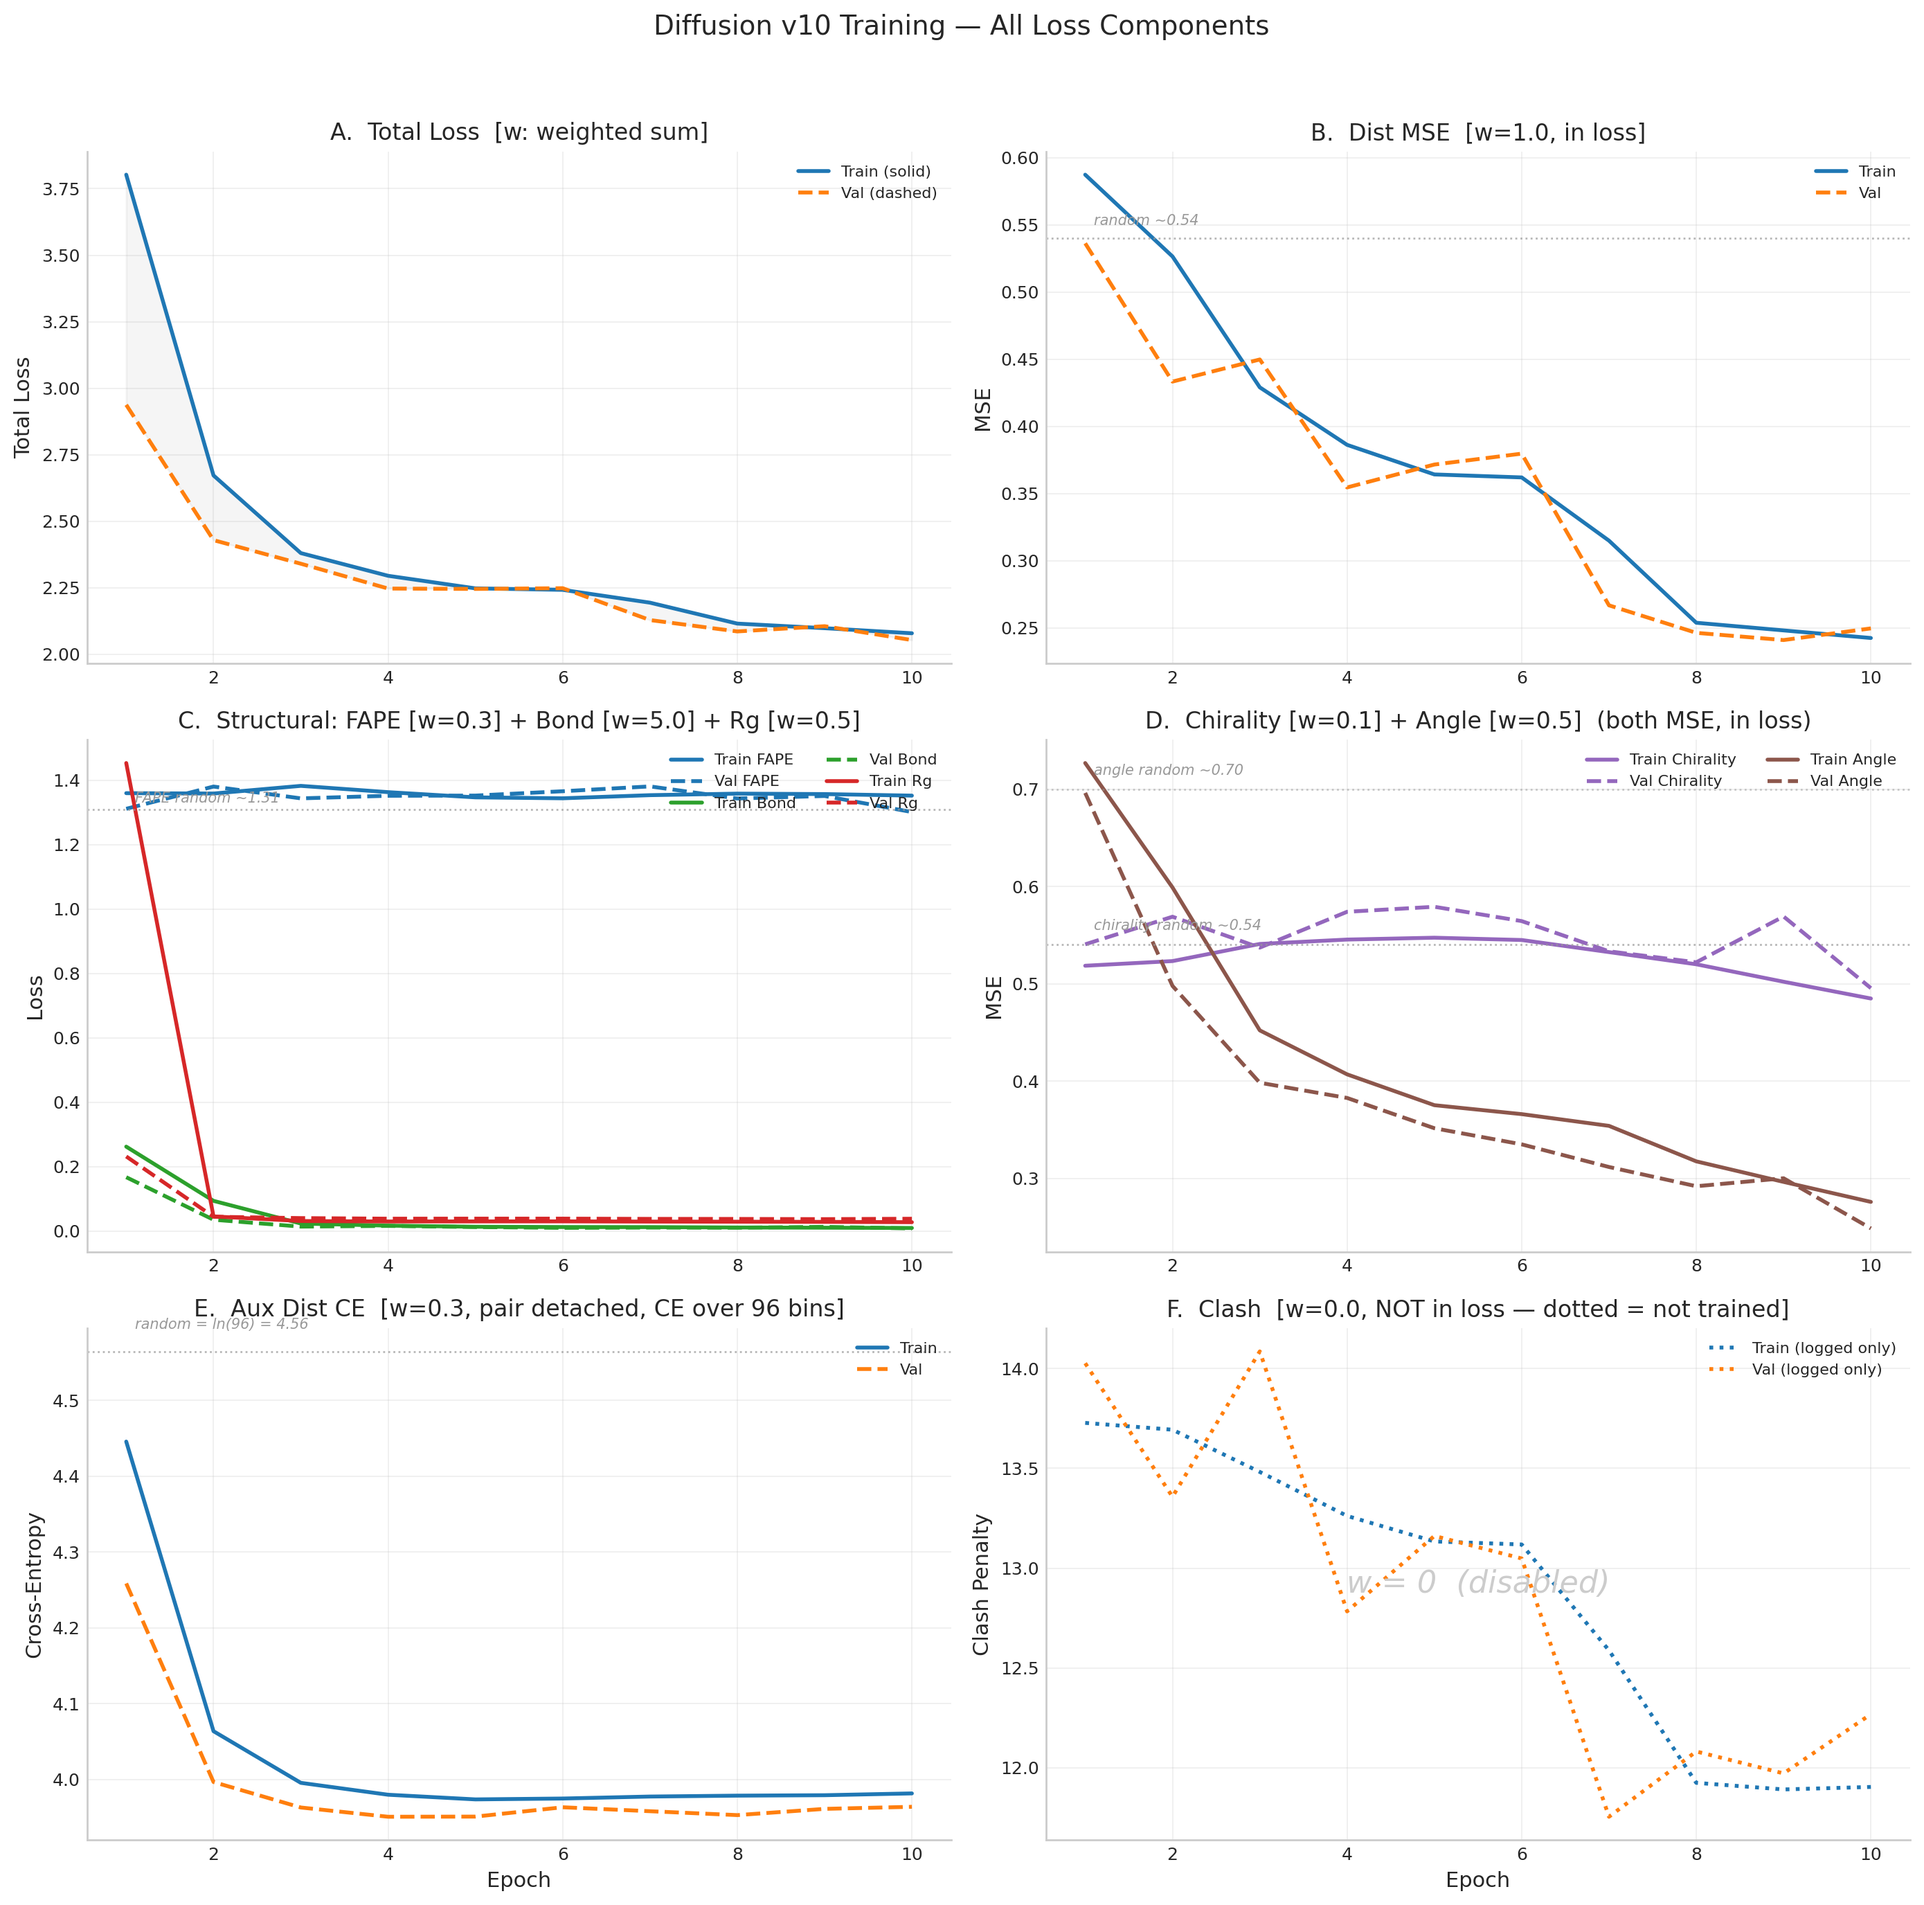
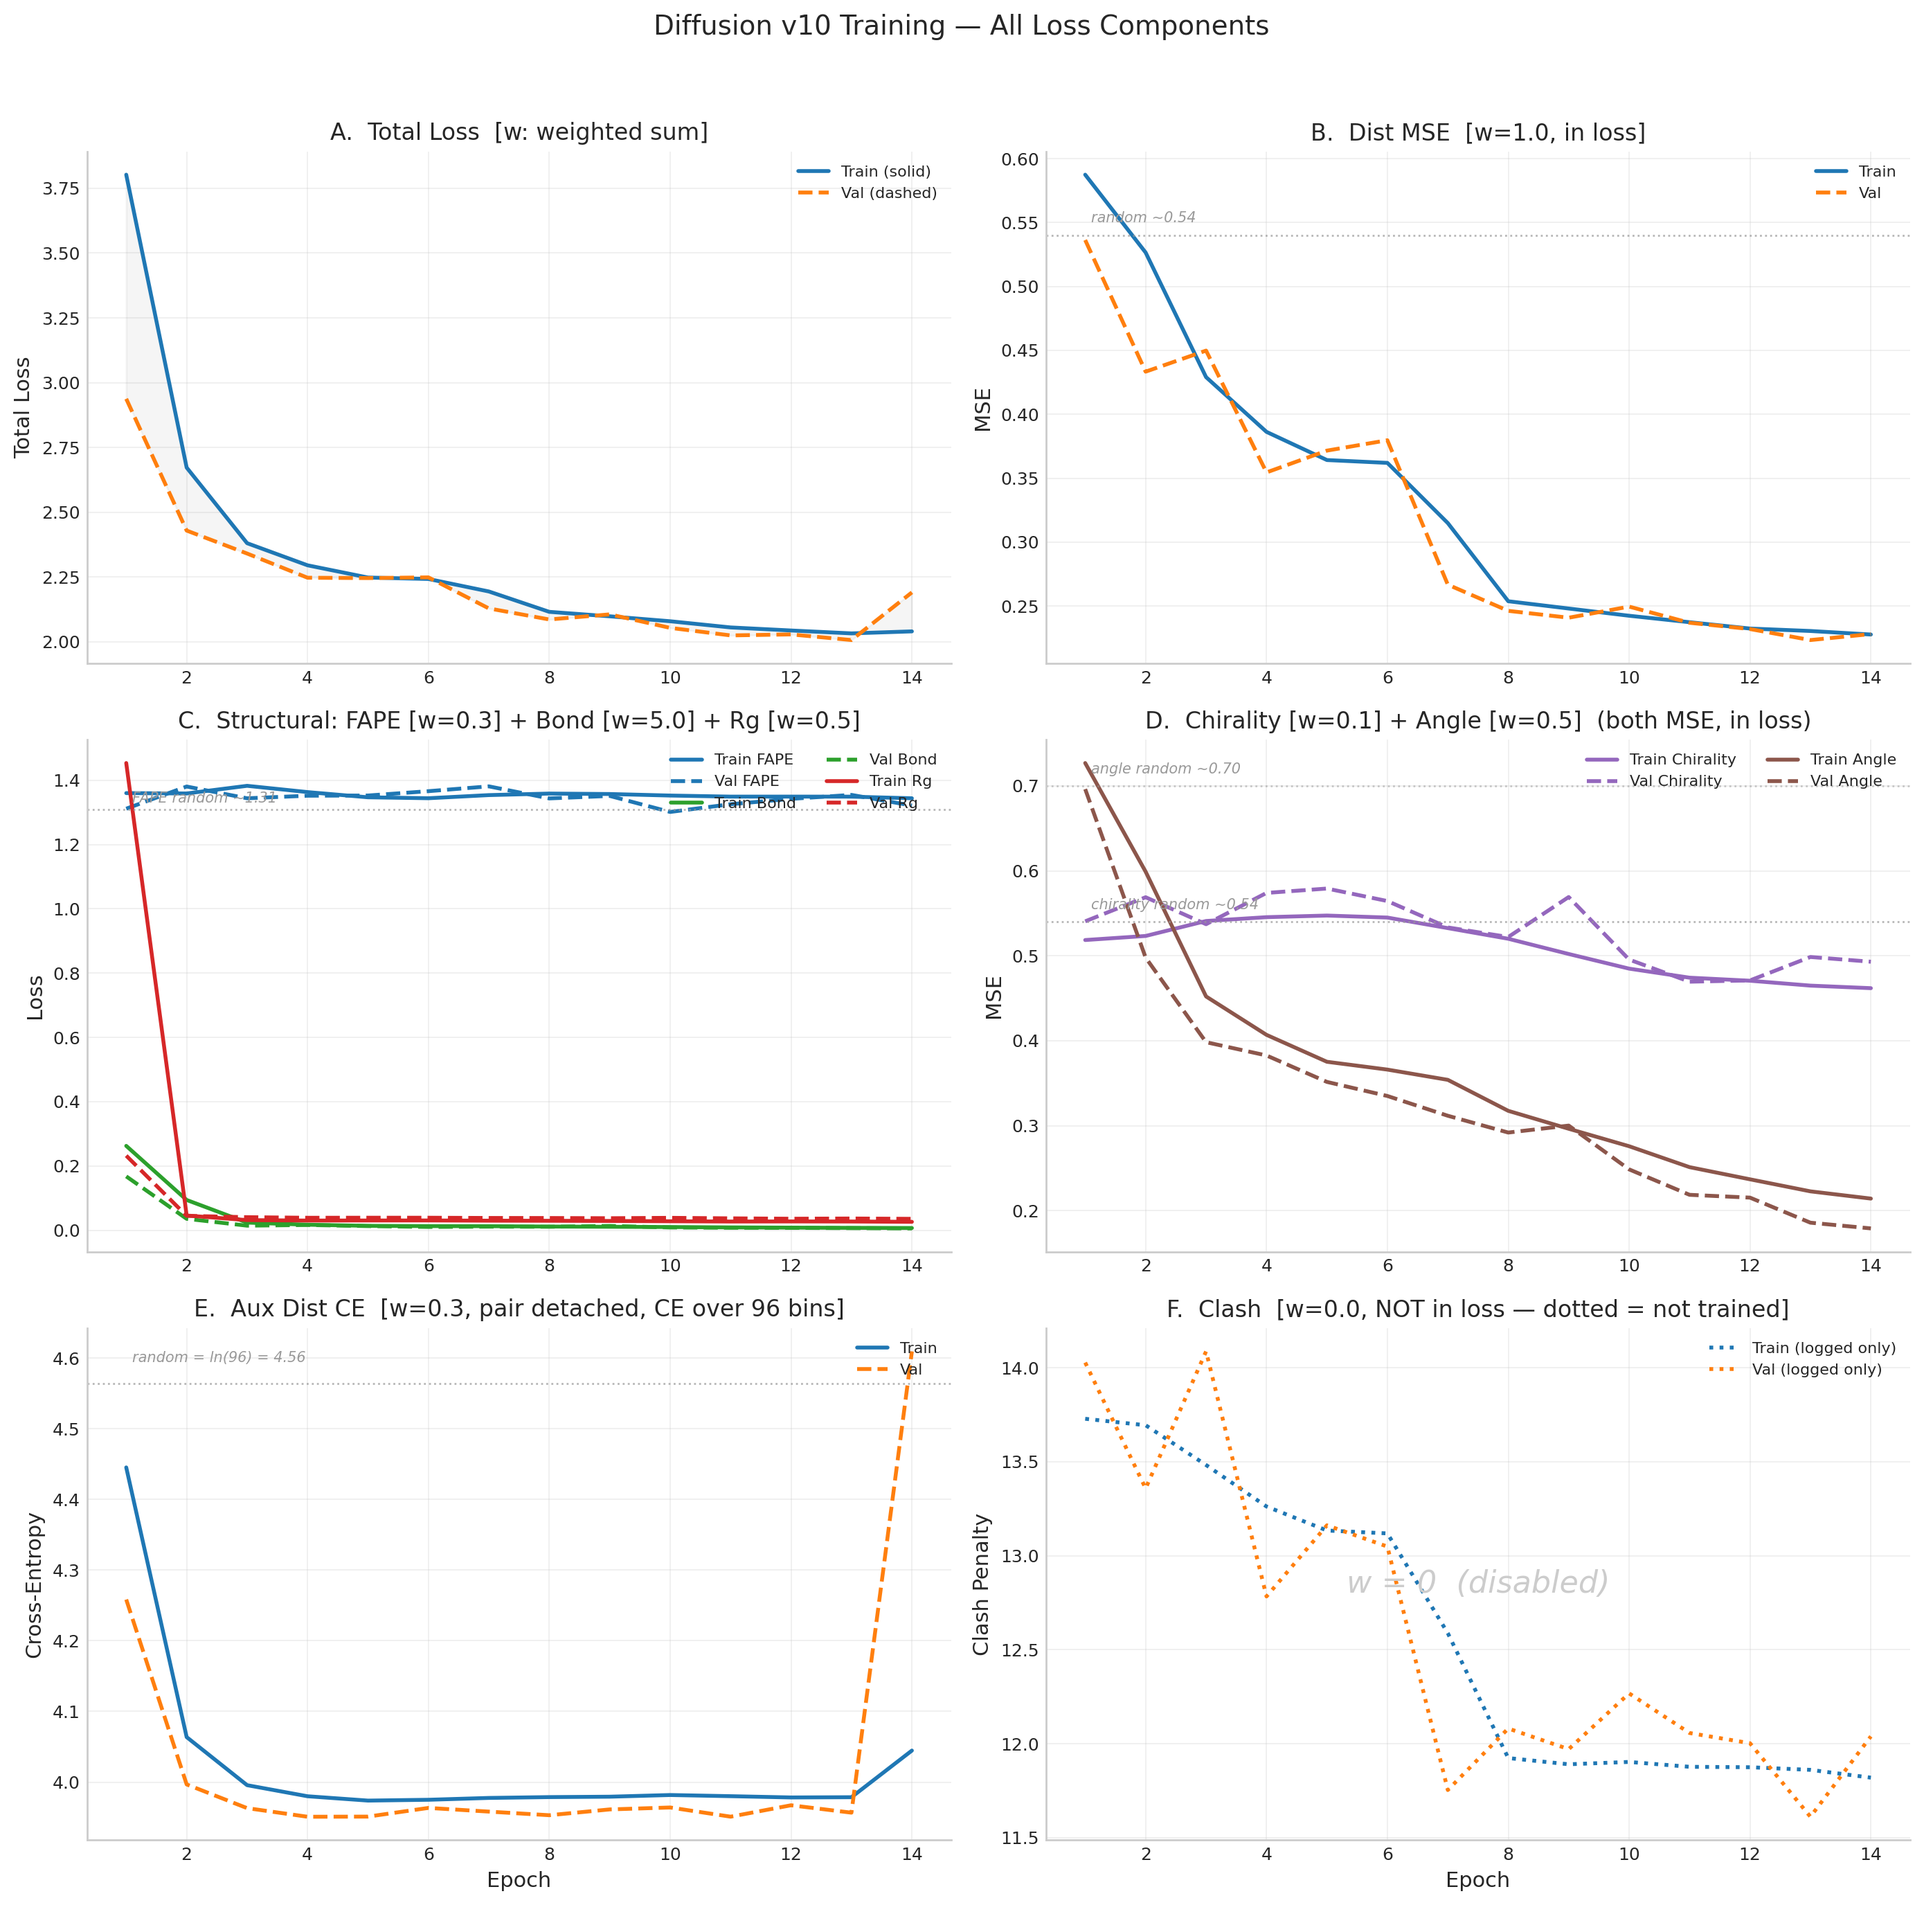
auto-update v10 training progress

diff --git a/index.html b/index.html
@@ -1302,11 +1302,6 @@
                 <td>&mdash;</td>
                 <td><span class="tag tag-best">NEW BEST</span></td>
               </tr>
-              <tr style="background: rgba(214, 39, 40, 0.08);">
-                <td colspan="9" style="text-align: center; font-size: 0.85em; font-style: italic; color: var(--text-secondary); padding: 4px;">
-                  &darr; aux_dist_ce divergence detected (E5&ndash;E12) &mdash; pair.detach() restored, rolled back to E4 checkpoint &darr;
-                </td>
-              </tr>
               <tr>
                 <td>5</td>
                 <td>2.246</td>
@@ -1372,6 +1367,50 @@
                 <td>&mdash;</td>
                 <td>&mdash;</td>
                 <td><span class="tag tag-best">NEW BEST</span></td>
+              </tr>
+              <tr>
+                <td>11</td>
+                <td>2.024</td>
+                <td>0.237</td>
+                <td>1.325</td>
+                <td>0.037</td>
+                <td>0.008</td>
+                <td>&mdash;</td>
+                <td>&mdash;</td>
+                <td><span class="tag tag-best">NEW BEST</span></td>
+              </tr>
+              <tr>
+                <td>12</td>
+                <td>2.028</td>
+                <td>0.232</td>
+                <td>1.342</td>
+                <td>0.036</td>
+                <td>0.007</td>
+                <td>14.58&Aring;</td>
+                <td>0.131</td>
+                <td><span class="tag tag-pat">pat 1</span></td>
+              </tr>
+              <tr>
+                <td>13</td>
+                <td>2.006</td>
+                <td>0.223</td>
+                <td>1.354</td>
+                <td>0.036</td>
+                <td>0.006</td>
+                <td>&mdash;</td>
+                <td>&mdash;</td>
+                <td><span class="tag tag-best">NEW BEST</span></td>
+              </tr>
+              <tr>
+                <td>14</td>
+                <td>2.190</td>
+                <td>0.228</td>
+                <td>1.321</td>
+                <td>0.035</td>
+                <td>0.006</td>
+                <td>&mdash;</td>
+                <td>&mdash;</td>
+                <td><span class="tag tag-pat">pat 1</span></td>
               </tr>
               </tbody>
           </table>
@@ -1490,16 +1529,16 @@
           </div>
         </div>
 
-        <h4 class="training-progress-heading">Loss Curves (through Epoch 10)</h4>
+        <h4 class="training-progress-heading">Loss Curves (through Epoch 14)</h4>
         <div style="text-align: center; margin: 16px 0;">
           <img src="data/training/v10_loss_curves.png" alt="V10 diffusion training loss curves" style="max-width: 100%; border-radius: 6px; border: 1px solid var(--border);">
         </div>
 
         <div class="training-pending-note" id="v9-run2-status">
-          v10: 10 epochs completed (post-fix). Best val loss: 2.053 at epoch 10. Patience: 0/15. Best DDIM TM-score: 0.125 (E9). FAPE broke below random baseline (1.301 &lt; 1.31) &mdash; topology learning beginning. Running on single A40 GPU (savio3) with auto-resume.
+          v10: 14 epochs completed. Best val loss: 2.006 at epoch 13. Patience: 1/15. Best DDIM TM-score: 0.131 (E12). Running on single A40 GPU (savio3) with auto-resume.
         </div>
         <div style="color: var(--text-secondary); font-size: 0.85em; margin-top: 8px;" id="v9-last-updated">
-          Last updated: 2026-03-08 19:15 UTC
+          Last updated: 2026-03-09 03:29 UTC
         </div>
       </div>
 
